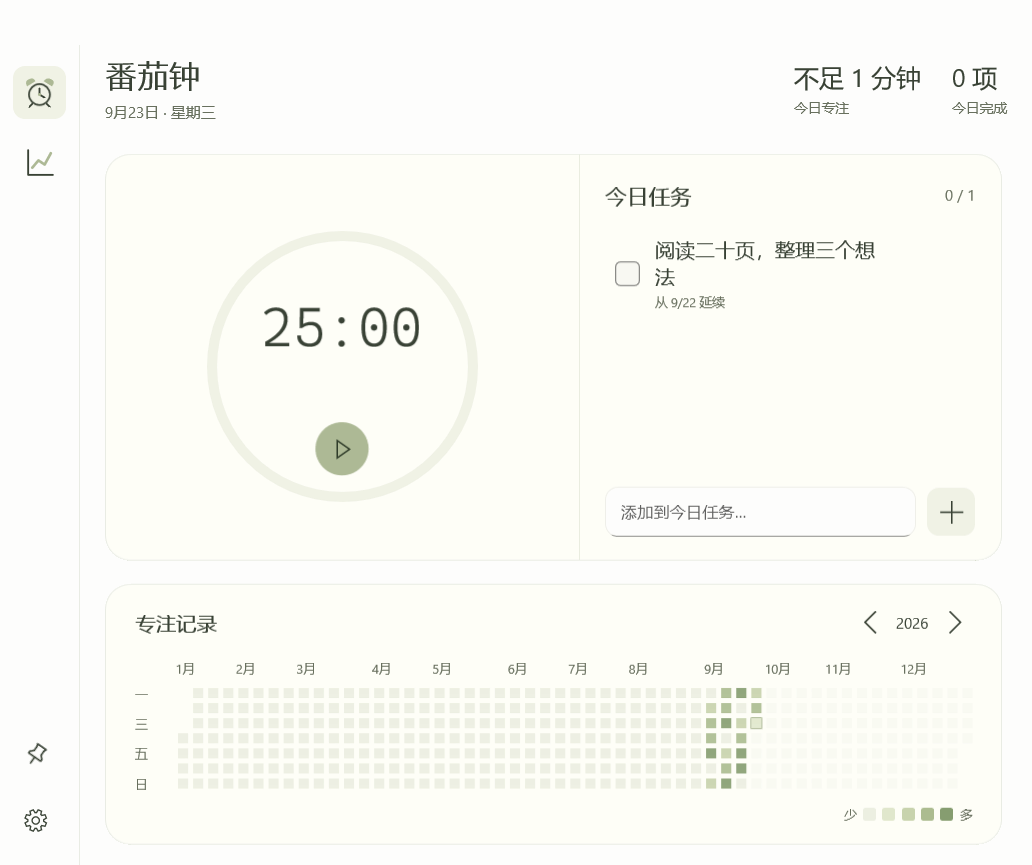
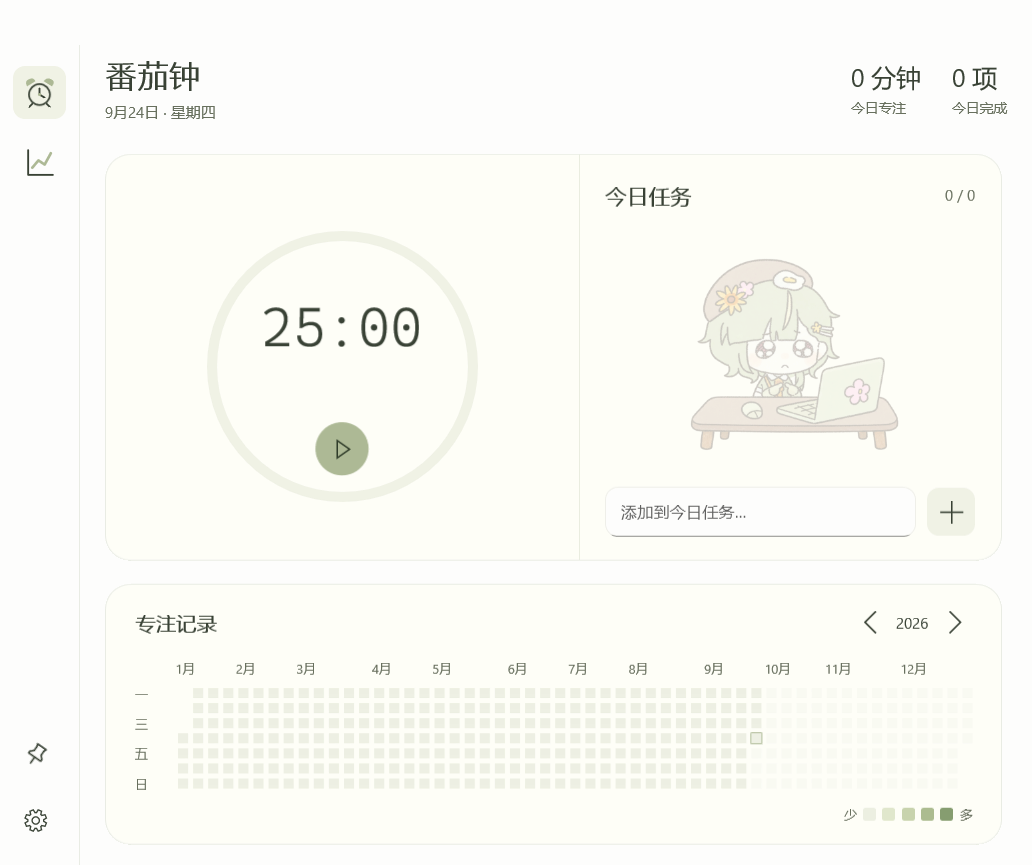
Release 1.0.2: completion reminder, resource reuse and task artwork

diff --git a/src/XiliPomodoro/MainWindow.Timer.cs b/src/XiliPomodoro/MainWindow.Timer.cs
@@ -16,6 +16,8 @@ public sealed partial class MainWindow
     Button pauseButton = null!;
     CompositionEffectBrush? timerBlurBrush;
     CompositionVisualSurface? timerTextSurface;
+    CompositionSurfaceBrush? timerSurfaceBrush;
+    SpriteVisual? timerBlurVisual;
     bool? timerActive;
     bool timerPointerInside, timerControlsShown;
     readonly HashSet<Button> hoveredTimerButtons = [];
@@ -26,8 +28,9 @@ public sealed partial class MainWindow
     {
         timerActive = null; timerPointerInside = timerControlsShown = false;
         hoveredTimerButtons.Clear();
-        timerBlurBrush?.Dispose(); timerBlurBrush = null;
-        timerTextSurface?.Dispose(); timerTextSurface = null;
+        ReleaseTimerBlur();
+        ringVisual?.Dispose(); ringShape?.StrokeBrush?.Dispose(); ringShape?.Dispose(); ringGeometry?.Dispose();
+        ringVisual = null; ringShape = null; ringGeometry = null;
         var container = new Grid { Padding = new Thickness(12) };
         var stack = new StackPanel { Spacing = 16, HorizontalAlignment = HorizontalAlignment.Center, VerticalAlignment = VerticalAlignment.Center };
         stateText = Text("", 18); stateText.Foreground = accent; stateText.FontWeight = Microsoft.UI.Text.FontWeights.SemiBold;
@@ -56,27 +59,7 @@ public sealed partial class MainWindow
         ElementCompositionPreview.SetIsTranslationEnabled(timeLayer, true);
         ElementCompositionPreview.GetElementVisual(timeLayer).CenterPoint = new Vector3(104, 36, 0);
         timerBlurHost = new Grid { IsHitTestVisible = false }; timerZone.Children.Add(timerBlurHost);
-        try
-        {
-            using var effect = new GaussianBlurEffect { BlurAmount = 4, BorderMode = EffectBorderMode.Hard, Source = new CompositionEffectSourceParameter("source") };
-            using var factory = compositor.CreateEffectFactory(effect);
-            // Capture just the text subtree, independent of the fading parent and desktop backdrop.
-            var textSurface = compositor.CreateVisualSurface(); timerTextSurface = textSurface;
-            textSurface.SourceVisual = ElementCompositionPreview.GetElementVisual(timeText);
-            textSurface.SourceOffset = new Vector2(-8);
-            var source = compositor.CreateSurfaceBrush(textSurface); source.Stretch = CompositionStretch.Fill;
-            timerBlurBrush = factory.CreateBrush(); timerBlurBrush.SetSourceParameter("source", source);
-            var blur = compositor.CreateSpriteVisual(); blur.Brush = timerBlurBrush; blur.Opacity = 0.48f;
-            timeText.SizeChanged += (sender, _) =>
-            {
-                var text = (TextBlock)sender;
-                if (text.ActualWidth <= 0 || text.ActualHeight <= 0 || timerTextSurface != textSurface) return;
-                textSurface.SourceSize = new Vector2((float)text.ActualWidth + 16, (float)text.ActualHeight + 16);
-                blur.Size = textSurface.SourceSize * 1.18f; blur.Offset = new Vector3((208 - blur.Size.X) / 2, (88 - blur.Size.Y) / 2, 0);
-            };
-            ElementCompositionPreview.SetElementChildVisual(timerBlurHost, blur);
-        }
-        catch (Exception ex) { Trace("Timer blur unavailable: " + ex.Message); }
+        timeText.SizeChanged += (_, _) => UpdateTimerBlurSize();
         timerActions = new StackPanel { Orientation = Orientation.Horizontal, Spacing = 14, HorizontalAlignment = HorizontalAlignment.Center, VerticalAlignment = VerticalAlignment.Center };
         pauseButton = IconButton("\uE769", "暂停", ToggleTimer); pauseButton.Width = pauseButton.Height = 46; pauseButton.CornerRadius = new CornerRadius(23); pauseButton.Background = accent; pauseButton.Foreground = onAccent;
         endButton = IconButton("\uE71A", "结束专注", EndTimer); endButton.Width = endButton.Height = 46; endButton.CornerRadius = new CornerRadius(23); endButton.Background = quiet;
@@ -91,6 +74,40 @@ public sealed partial class MainWindow
         timerHint = Text("", 11, true); timerHint.HorizontalAlignment = HorizontalAlignment.Center; timerHint.MinHeight = 16; stack.Children.Add(timerHint);
         timerViewbox = new Viewbox { Child = stack, Stretch = Stretch.Uniform, MaxWidth = 340, MaxHeight = 400, HorizontalAlignment = HorizontalAlignment.Center, VerticalAlignment = VerticalAlignment.Center };
         container.Children.Add(timerViewbox); return container;
+    }
+    void EnsureTimerBlur()
+    {
+        if (timerBlurBrush != null) return;
+        var compositor = ElementCompositionPreview.GetElementVisual(timerBlurHost).Compositor;
+        try
+        {
+            using var effect = new GaussianBlurEffect { BlurAmount = 4, BorderMode = EffectBorderMode.Hard, Source = new CompositionEffectSourceParameter("source") };
+            using var factory = compositor.CreateEffectFactory(effect);
+            timerTextSurface = compositor.CreateVisualSurface();
+            timerTextSurface.SourceVisual = ElementCompositionPreview.GetElementVisual(timeText);
+            timerTextSurface.SourceOffset = new Vector2(-8);
+            timerSurfaceBrush = compositor.CreateSurfaceBrush(timerTextSurface); timerSurfaceBrush.Stretch = CompositionStretch.Fill;
+            timerBlurBrush = factory.CreateBrush(); timerBlurBrush.SetSourceParameter("source", timerSurfaceBrush);
+            timerBlurVisual = compositor.CreateSpriteVisual(); timerBlurVisual.Brush = timerBlurBrush; timerBlurVisual.Opacity = 0.48f;
+            UpdateTimerBlurSize();
+            ElementCompositionPreview.SetElementChildVisual(timerBlurHost, timerBlurVisual);
+        }
+        catch (Exception ex) { ReleaseTimerBlur(); Trace("Timer blur unavailable: " + ex.Message); }
+    }
+    void UpdateTimerBlurSize()
+    {
+        if (timerTextSurface == null || timerBlurVisual == null || timeText.ActualWidth <= 0 || timeText.ActualHeight <= 0) return;
+        timerTextSurface.SourceSize = new Vector2((float)timeText.ActualWidth + 16, (float)timeText.ActualHeight + 16);
+        timerBlurVisual.Size = timerTextSurface.SourceSize * 1.18f;
+        timerBlurVisual.Offset = new Vector3((208 - timerBlurVisual.Size.X) / 2, (88 - timerBlurVisual.Size.Y) / 2, 0);
+    }
+    void ReleaseTimerBlur()
+    {
+        if (timerBlurHost != null) ElementCompositionPreview.SetElementChildVisual(timerBlurHost, null);
+        timerBlurVisual?.Dispose(); timerBlurVisual = null;
+        timerBlurBrush?.Dispose(); timerBlurBrush = null;
+        timerSurfaceBrush?.Dispose(); timerSurfaceBrush = null;
+        timerTextSurface?.Dispose(); timerTextSurface = null;
     }
     void AttachTimerPointerHandling()
     {
@@ -128,6 +145,7 @@ public sealed partial class MainWindow
         var keyboardStart = startButton.FocusState == FocusState.Keyboard;
         var keyboardEnd = pauseButton.FocusState == FocusState.Keyboard || endButton.FocusState == FocusState.Keyboard;
         timerActive = active;
+        if (active) EnsureTimerBlur(); else ReleaseTimerBlur();
         if (active) hoveredTimerButtons.Remove(startButton);
         else { SetTimerButtonHovered(pauseButton, false); SetTimerButtonHovered(endButton, false); }
         var label = engine.State.Status == TimerStatus.Paused ? "继续" : "暂停";

diff --git a/src/XiliPomodoro/MainWindow.cs b/src/XiliPomodoro/MainWindow.cs
@@ -22,6 +22,9 @@ public sealed partial class MainWindow : Window
     readonly DispatcherTimer heartbeat = new();
     readonly UISettings uiSettings = new();
     Grid root = null!, focusPage = null!, settingsPage = null!, chartPage = null!;
+    Grid pagesHost = null!;
+    bool settingsBuilt, chartBuilt;
+    readonly Dictionary<uint, SolidColorBrush> brushes = [];
     StackPanel taskList = null!;
     TextBox taskInput = null!, timeEditor = null!;
     TextBlock timeText = null!, stateText = null!, timerHint = null!, todayTime = null!, todayCount = null!, tasksCount = null!, subtitle = null!;
@@ -83,10 +86,12 @@ public sealed partial class MainWindow : Window
     partial void InitializeDiagnostics();
     partial void CaptureDiagnostic();
     static partial void Trace(string message);
-    static SolidColorBrush Brush(string hex)
+    SolidColorBrush Brush(string hex)
     {
         hex = hex.TrimStart('#'); var n = Convert.ToUInt32(hex, 16);
-        return new SolidColorBrush(Color.FromArgb(hex.Length == 8 ? (byte)(n >> 24) : (byte)255, (byte)(n >> 16), (byte)(n >> 8), (byte)n));
+        if (hex.Length != 8) n |= 0xFF000000;
+        if (!brushes.TryGetValue(n, out var brush)) brushes[n] = brush = new SolidColorBrush(Color.FromArgb((byte)(n >> 24), (byte)(n >> 16), (byte)(n >> 8), (byte)n));
+        return brush;
     }
     TextBlock Text(string text, double size = 14, bool secondary = false) => new() { Text = text, FontSize = size, Foreground = secondary ? muted : ink, TextWrapping = TextWrapping.Wrap, VerticalAlignment = VerticalAlignment.Center };
     FontIcon Icon(string glyph, double size = 18) => new() { Glyph = glyph, FontFamily = new FontFamily("Segoe MDL2 Assets"), FontSize = size };
@@ -113,6 +118,8 @@ public sealed partial class MainWindow : Window
     void BuildUI()
     {
         Trace("build UI");
+        ResetChartResources();
+        settingsBuilt = chartBuilt = false;
         if (timeEditDirty && timeEditor != null) CommitInlineDuration();
         timeEditDirty = false;
         HideHeatTip();
@@ -143,7 +150,7 @@ public sealed partial class MainWindow : Window
         var bottom = new StackPanel { Spacing = 12, VerticalAlignment = VerticalAlignment.Bottom };
         var pin = BuildPinButton();
         settingsNav = IconButton("\uE713", "设置", () => SwitchPage(true)); bottom.Children.Add(pin); bottom.Children.Add(settingsNav); rail.Children.Add(bottom); shell.Children.Add(rail);
-        var pages = new Grid { Margin = new Thickness(20, 6, 20, 16) }; Place(shell, pages, 0, 1);
+        var pages = pagesHost = new Grid { Margin = new Thickness(20, 6, 20, 16) }; Place(shell, pages, 0, 1);
         focusPage = new Grid(); focusPage.RowDefinitions.Add(new RowDefinition { Height = GridLength.Auto }); focusPage.RowDefinitions.Add(new RowDefinition { Height = new GridLength(1, GridUnitType.Star) });
         var header = focusHeader = new Grid { Margin = new Thickness(0, 0, 0, 16), RowSpacing = 10 }; header.RowDefinitions.Add(new RowDefinition()); header.RowDefinitions.Add(new RowDefinition { Height = GridLength.Auto }); header.ColumnDefinitions.Add(new ColumnDefinition()); header.ColumnDefinitions.Add(new ColumnDefinition { Width = GridLength.Auto });
         var heading = new StackPanel { Spacing = 6 }; var titleText = Text("番茄钟", 25); titleText.FontWeight = Microsoft.UI.Text.FontWeights.SemiBold; heading.Children.Add(titleText);
@@ -164,7 +171,7 @@ public sealed partial class MainWindow : Window
         focusScroller.SizeChanged += (_, _) => UpdateResponsiveLayout();
         heatCard.SizeChanged += (_, _) => UpdateResponsiveLayout();
         Trace("heatmap built");
-        settingsPage = BuildSettings(); chartPage = BuildChart(); pages.Children.Add(focusPage); pages.Children.Add(settingsPage); pages.Children.Add(chartPage);
+        settingsPage = new Grid(); chartPage = new Grid(); pages.Children.Add(focusPage); pages.Children.Add(settingsPage); pages.Children.Add(chartPage);
         Trace("settings built");
         BuildHeatTip();
         AttachTimerPointerHandling();
@@ -183,6 +190,14 @@ public sealed partial class MainWindow : Window
         HideHeatTip(); HideChartTip();
         timerPointerInside = false; UpdateTimerHover();
         settingsOpen = settings; chartOpen = !settings && chart;
+        if (settingsOpen && !settingsBuilt)
+        {
+            pagesHost.Children.Remove(settingsPage); settingsPage = BuildSettings(); pagesHost.Children.Add(settingsPage); settingsBuilt = true;
+        }
+        if (chartOpen && !chartBuilt)
+        {
+            pagesHost.Children.Remove(chartPage); chartPage = BuildChart(); pagesHost.Children.Add(chartPage); chartBuilt = true;
+        }
         focusPage.Visibility = !settingsOpen && !chartOpen ? Visibility.Visible : Visibility.Collapsed;
         settingsPage.Visibility = settingsOpen ? Visibility.Visible : Visibility.Collapsed;
         chartPage.Visibility = chartOpen ? Visibility.Visible : Visibility.Collapsed;
@@ -261,6 +276,8 @@ public sealed partial class MainWindow : Window
     {
         Save(); RenderTimer(); UpdateStatistics(); RefreshHeatmap();
         RestoreWindow(showFocus: true);
+        completionPending = true;
+        _ = ShowCompletionReminderAsync();
     }
     void ShowMain() => RestoreWindow(showFocus: false);
     void RestoreWindow(bool showFocus)
@@ -306,14 +323,14 @@ public sealed partial class MainWindow : Window
         engine.EndEarly();
         try { await store.SaveAsync(data); }
         catch (Exception ex) { ShowMain(); ReportError("无法保存，暂未退出", ex.Message); return; }
-        quitting = true; heartbeat.Stop(); StopRing(); native.Dispose(); store.Dispose(); Close(); Application.Current.Exit();
+        quitting = true; heartbeat.Stop(); StopRing(); ReleaseTimerBlur(); ResetChartResources(); native.Dispose(); store.Dispose(); Close(); Application.Current.Exit();
     }
     async Task<ContentDialogResult> Dialog(string title, UIElement content, string primary = "保存", string close = "取消")
     {
         if (dialogOpen) return ContentDialogResult.None;
         dialogOpen = true;
         try { return await new ContentDialog { XamlRoot = root.XamlRoot, RequestedTheme = root.RequestedTheme, Title = title, Content = content, PrimaryButtonText = primary, CloseButtonText = close, DefaultButton = ContentDialogButton.Primary }.ShowAsync(); }
-        finally { dialogOpen = false; }
+        finally { dialogOpen = false; if (completionPending) _ = ShowCompletionReminderAsync(); }
     }
     void SyncTimeEditor()
     {

diff --git a/src/XiliPomodoro/MainWindow.Tasks.cs b/src/XiliPomodoro/MainWindow.Tasks.cs
@@ -1,6 +1,7 @@
 using Microsoft.UI.Xaml;
 using Microsoft.UI.Xaml.Controls;
 using Microsoft.UI.Xaml.Media;
+using Microsoft.UI.Xaml.Media.Imaging;
 using XiliPomodoro.Core;
 using Windows.System;
 
@@ -18,15 +19,28 @@ public sealed partial class MainWindow
         public bool PointerInside;
     }
     readonly Dictionary<string, TaskRow> taskRows = new();
-    UIElement? emptyTasks;
     UIElement BuildTasks()
     {
-        taskRows.Clear(); emptyTasks = null;
+        taskRows.Clear();
         var grid = new Grid { BorderBrush = line, BorderThickness = new Thickness(1, 0, 0, 0), Padding = new Thickness(20, 20, 20, 18) };
         grid.RowDefinitions.Add(new RowDefinition { Height = GridLength.Auto }); grid.RowDefinitions.Add(new RowDefinition { Height = new GridLength(1, GridUnitType.Star) }); grid.RowDefinitions.Add(new RowDefinition { Height = GridLength.Auto });
         var heading = new Grid { Margin = new Thickness(0, 0, 0, 14) }; heading.ColumnDefinitions.Add(new ColumnDefinition()); heading.ColumnDefinitions.Add(new ColumnDefinition { Width = GridLength.Auto });
         var title = Text("今日任务", 17); title.FontWeight = Microsoft.UI.Text.FontWeights.SemiBold; heading.Children.Add(title);
         tasksCount = Text("0 / 0", 12, true); Place(heading, tasksCount, 0, 1); grid.Children.Add(heading);
+        // The illustration stays behind the scrollable tasks, with no layout or pointer impact.
+        var decoration = new Canvas { IsHitTestVisible = false };
+        var illustration = new Image
+        {
+            Source = new BitmapImage(new Uri("ms-appx:///Assets/TaskIllustration.png")) { DecodePixelWidth = 480 },
+            Stretch = Stretch.Uniform, Opacity = dark ? 0.14 : 0.24
+        };
+        Microsoft.UI.Xaml.Automation.AutomationProperties.SetAccessibilityView(illustration, Microsoft.UI.Xaml.Automation.Peers.AccessibilityView.Raw);
+        decoration.Children.Add(illustration); Place(grid, decoration, 1);
+        decoration.SizeChanged += (_, _) =>
+        {
+            illustration.Width = Math.Max(0, decoration.ActualWidth);
+            illustration.Height = Math.Max(0, decoration.ActualHeight);
+        };
         taskList = new StackPanel { Spacing = 5 }; var scroll = new ScrollViewer { Content = taskList, VerticalScrollBarVisibility = ScrollBarVisibility.Auto, HorizontalScrollBarVisibility = ScrollBarVisibility.Disabled, Padding = new Thickness(0, 0, 4, 0) }; Place(grid, scroll, 1);
         var inputRow = new Grid { Margin = new Thickness(0, 16, 0, 0), ColumnSpacing = 8 }; inputRow.ColumnDefinitions.Add(new ColumnDefinition()); inputRow.ColumnDefinitions.Add(new ColumnDefinition { Width = GridLength.Auto });
         taskInput = new TextBox { PlaceholderText = "添加到今日任务…", MaxLength = 200, CornerRadius = new CornerRadius(10), FontSize = 13, Padding = new Thickness(12, 9, 12, 9) };
@@ -46,16 +60,6 @@ public sealed partial class MainWindow
         var ids = tasks.Select(t => t.Id).ToHashSet();
         foreach (var id in taskRows.Keys.Where(id => !ids.Contains(id)).ToList())
         { taskList.Children.Remove(taskRows[id].Root); taskRows.Remove(id); }
-        if (tasks.Count == 0)
-        {
-            if (emptyTasks == null)
-            {
-                var empty = Text("暂无任务", 14, true); empty.HorizontalAlignment = HorizontalAlignment.Center; empty.Margin = new Thickness(0, 75, 0, 0); emptyTasks = empty;
-            }
-            if (!taskList.Children.Contains(emptyTasks)) taskList.Children.Add(emptyTasks);
-            return;
-        }
-        if (emptyTasks != null) taskList.Children.Remove(emptyTasks);
         foreach (var task in tasks)
         {
             if (!taskRows.TryGetValue(task.Id, out var view))

diff --git a/tests/UiHarness/MainWindow.QuickChecks.cs b/tests/UiHarness/MainWindow.QuickChecks.cs
@@ -1,0 +1,50 @@
+using Microsoft.UI.Xaml;
+using Microsoft.UI.Xaml.Controls;
+using XiliPomodoro.Core;
+
+namespace XiliPomodoro;
+
+public sealed partial class MainWindow
+{
+    bool quickStarted;
+    async Task RunQuickChecks()
+    {
+        if (quickStarted || Environment.GetEnvironmentVariable("XILI_DATA_DIR") == null) return;
+        quickStarted = true;
+        var report = new List<string>();
+        void Check(bool value, string message) { if (!value) throw new InvalidOperationException(message); report.Add("PASS " + message); }
+        try
+        {
+            await Task.Delay(300);
+            Check(!settingsBuilt && !chartBuilt && timerBlurBrush == null && ReferenceEquals(Brush("00000000"), Brush("00000000")), "Startup defers unused pages and blur; shared brushes are reused");
+            engine.SetDuration(1); ToggleTimer(); await Task.Delay(150);
+            timerPointerInside = true; UpdateTimerHover();
+            Check(timerControlsShown && timerBlurBrush != null && timerTextSurface != null && timerBlurVisual!.Size.X > 0, "Running timer retains the original blur and hover controls");
+            EndTimer();
+            Check(timerBlurBrush == null && timerTextSurface == null && timerBlurVisual == null, "Ending releases offscreen blur resources");
+            SwitchPage(false, animate: false, chart: true); await Task.Delay(150);
+            Check(chartBuilt && !settingsBuilt && chartDays.Count > 0 && chartLine != null, "Chart is created on first use and still draws");
+            SwitchPage(true, animate: false);
+            var edit = Dialog("编辑任务", new TextBox { Text = "保留正在输入的内容" }); await Task.Delay(150);
+            OnFocusCompleted();
+            Check(completionPending && completionDialog == null, "Completion waits for an existing dialog instead of dropping it");
+            // The active ContentDialog is the only popup child in the XamlRoot.
+            var existing = Microsoft.UI.Xaml.Media.VisualTreeHelper.GetOpenPopupsForXamlRoot(root.XamlRoot)
+                .Select(p => p.Child).OfType<ContentDialog>().First();
+            existing.Hide(); await edit; await Task.Delay(250);
+            Check(completionDialog?.IsLoaded == true && !completionPending && !settingsOpen, "Queued completion displays once after the edit dialog closes");
+            completionDialog!.Hide();
+            for (var i = 0; dialogOpen && i < 30; i++) await Task.Delay(50);
+            engine.State.DurationSeconds = engine.State.RemainingSeconds = 1;
+            ToggleTimer(); SwitchPage(true, animate: false); hidden = true; StopRing(); native.Hide(); ScheduleHeartbeat();
+            await Task.Delay(1400);
+            Check(!hidden && !settingsOpen && completionDialog?.IsLoaded == true && (string)completionDialog.Title == "时间到了", "Actual countdown completion restores the window and shows the reminder");
+            completionDialog!.Hide();
+            for (var i = 0; dialogOpen && i < 30; i++) await Task.Delay(50);
+            Check(!dialogOpen && completionDialog == null && engine.State.Status == TimerStatus.Ready, "Acknowledging the reminder waits for manual restart");
+            report.Add("COMPLETE");
+        }
+        catch (Exception ex) { report.Add("FAIL " + ex); }
+        await File.WriteAllLinesAsync(System.IO.Path.Combine(DataStore.DataDirectory, "smoke-results.txt"), report);
+    }
+}

diff --git a/tests/UiHarness/MainWindow.Diagnostics.cs b/tests/UiHarness/MainWindow.Diagnostics.cs
@@ -10,10 +10,16 @@ public sealed partial class MainWindow
 {
     partial void InitializeDiagnostics()
     {
-        if (Environment.GetEnvironmentVariable("XILI_RUN_SMOKE") == "1") root.Loaded += async (_, _) => await RunSmoke();
+        if (Environment.GetEnvironmentVariable("XILI_CAPTURE_ONLY") == "1") root.Loaded += async (_, _) => await CaptureDiagnosticAsync();
+        else if (Environment.GetEnvironmentVariable("XILI_QUICK_CHECK") == "1") root.Loaded += async (_, _) => await RunQuickChecks();
+        else if (Environment.GetEnvironmentVariable("XILI_RUN_SMOKE") == "1")
+        {
+            engine.FocusCompleted += () => DispatcherQueue.TryEnqueue(() => completionDialog?.Hide());
+            root.Loaded += async (_, _) => await RunSmoke();
+        }
     }
     static partial void Trace(string message) { if (Environment.GetEnvironmentVariable("XILI_DATA_DIR") != null) { Directory.CreateDirectory(DataStore.DataDirectory); File.AppendAllText(Path.Combine(DataStore.DataDirectory, "diagnostic.log"), DateTime.Now.ToString("O") + " " + message + Environment.NewLine); } }
-    partial void CaptureDiagnostic() { _ = CaptureDiagnosticAsync(); }
+    partial void CaptureDiagnostic() { if (Environment.GetEnvironmentVariable("XILI_RUN_SMOKE") == "1") _ = CaptureDiagnosticAsync(); }
     async Task CaptureDiagnosticAsync(Action? prepare = null, int delayMilliseconds = 500)
     {
         if (Environment.GetEnvironmentVariable("XILI_DATA_DIR") == null) return;

diff --git a/src/XiliPomodoro/MainWindow.Completion.cs b/src/XiliPomodoro/MainWindow.Completion.cs
@@ -1,0 +1,26 @@
+using Microsoft.UI.Xaml.Controls;
+
+namespace XiliPomodoro;
+
+public sealed partial class MainWindow
+{
+    bool completionPending;
+    ContentDialog? completionDialog;
+
+    async Task ShowCompletionReminderAsync()
+    {
+        // A task-edit or backup dialog may already be open. Its close handler
+        // will show the pending reminder, without discarding the user's input.
+        if (!completionPending || dialogOpen || quitting) return;
+        completionPending = false;
+        dialogOpen = true;
+        completionDialog = new ContentDialog
+        {
+            XamlRoot = root.XamlRoot, RequestedTheme = root.RequestedTheme,
+            Title = "时间到了", Content = "本轮专注已结束。",
+            CloseButtonText = "知道了", DefaultButton = ContentDialogButton.Close
+        };
+        try { await completionDialog.ShowAsync(); }
+        finally { completionDialog = null; dialogOpen = false; }
+    }
+}

diff --git a/src/XiliPomodoro/MainWindow.Chart.cs b/src/XiliPomodoro/MainWindow.Chart.cs
@@ -28,11 +28,19 @@ public sealed partial class MainWindow
     Polyline? chartLine;
     Polygon? chartArea;
 
-    Grid BuildChart()
+    void ResetChartResources()
     {
         CompositionTarget.Rendering -= DrawChartOnFrame; chartDrawQueued = false;
         chartGridLines.Clear(); chartYLabels.Clear(); chartXLabels.Clear(); chartDayDots.Clear(); chartLine = null; chartArea = null;
         chartTip = null; chartGuide = null; chartDot = null; chartSelected = -1; chartDays = [];
+        chartCanvas = null!; chartHost = null!;
+        chartMonthText = chartTotal = chartTipText = null!;
+        chartNext = chartPrevious = null!; chartPoints.Clear();
+    }
+
+    Grid BuildChart()
+    {
+        ResetChartResources();
         var page = new Grid { RowSpacing = 24 };
         page.RowDefinitions.Add(new RowDefinition { Height = GridLength.Auto });
         page.RowDefinitions.Add(new RowDefinition { Height = new GridLength(1, GridUnitType.Star) });

diff --git a/README.md b/README.md
@@ -6,7 +6,7 @@
 
 ## 功能
 
-- 点击时间直接修改时长，支持暂停、继续和结束；完成后弹出主窗口，等待手动开始下一轮。
+- 点击时间直接修改时长，支持暂停、继续和结束；完成后弹出主窗口与“时间到了”提示框，等待手动开始下一轮，不发送系统通知。
 - 今日任务支持添加、编辑、完成和删除，未完成任务自动跨天保留。
 - 年度热力图按专注时长着色，悬停查看当天时长和已完成任务。
 - 每日专注折线图、历史月份切换、窗口置顶、系统托盘、浅色/深色主题。
@@ -16,7 +16,7 @@
 
 ## 下载与运行
 
-在 [Releases](https://github.com/yuudashichi/YuudachiPomodoro/releases) 下载 **YuudachiPomodoro-1.0.1-win-x64.zip**，完整解压后进入 **惜立番茄钟** 文件夹，双击 **惜立番茄钟.exe** 即可。外层仅有启动程序和 `app` 文件夹，依赖、说明与数据均收纳在 `app` 中。请整体移动文件夹。
+在 [Releases](https://github.com/yuudashichi/YuudachiPomodoro/releases) 下载 **YuudachiPomodoro-1.0.2-win-x64.zip**，完整解压后进入 **惜立番茄钟** 文件夹，双击 **惜立番茄钟.exe** 即可。外层仅有启动程序和 `app` 文件夹，依赖、说明与数据均收纳在 `app` 中。请整体移动文件夹。
 
 ```text
 惜立番茄钟/
@@ -48,4 +48,4 @@ powershell -NoProfile -ExecutionPolicy Bypass -File tools/publish.ps1
 - `src/XiliPomodoro`：桌面界面、SQLite 存储与系统集成。
 - `tests`：核心测试与可选的界面回归工具；界面诊断代码不编入正式版。
 
-执行 `tools/test-ui.ps1` 可运行隔离的界面回归并生成演示截图。截图使用合成数据，渲染不包含系统标题栏与桌面背景。第三方依赖声明见 [THIRD-PARTY-NOTICES.md](THIRD-PARTY-NOTICES.md)。
+执行 `tools/test-ui.ps1` 默认只运行隔离的快速界面检查；需要完整回归和演示截图时再加 `-Full`，依赖已还原时可加 `-NoRestore`。截图使用合成数据，渲染不包含系统标题栏与桌面背景。设置页、折线图和计时模糊资源按需创建，共用画刷以减少重复分配。第三方依赖声明见 [THIRD-PARTY-NOTICES.md](THIRD-PARTY-NOTICES.md)。
